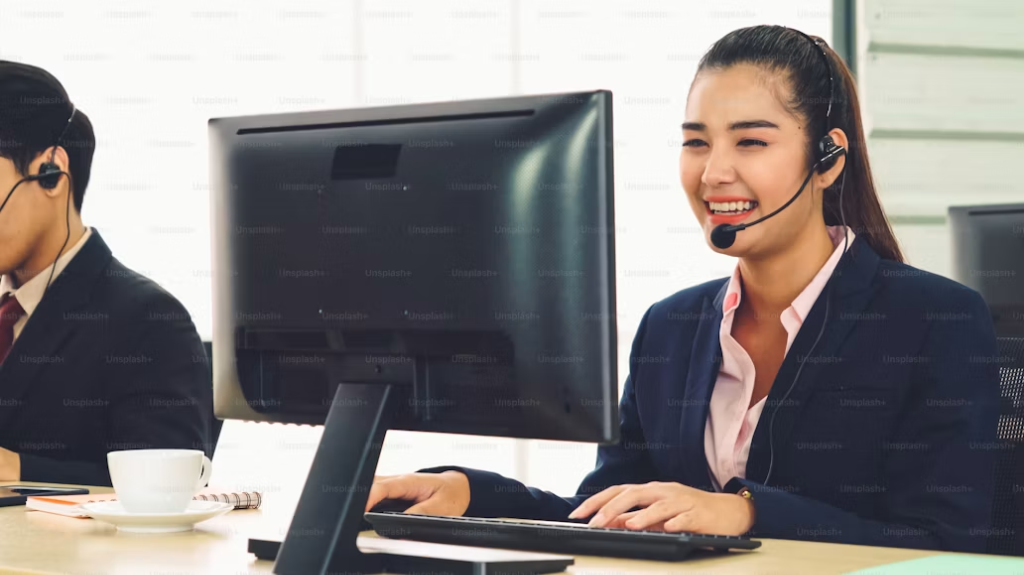
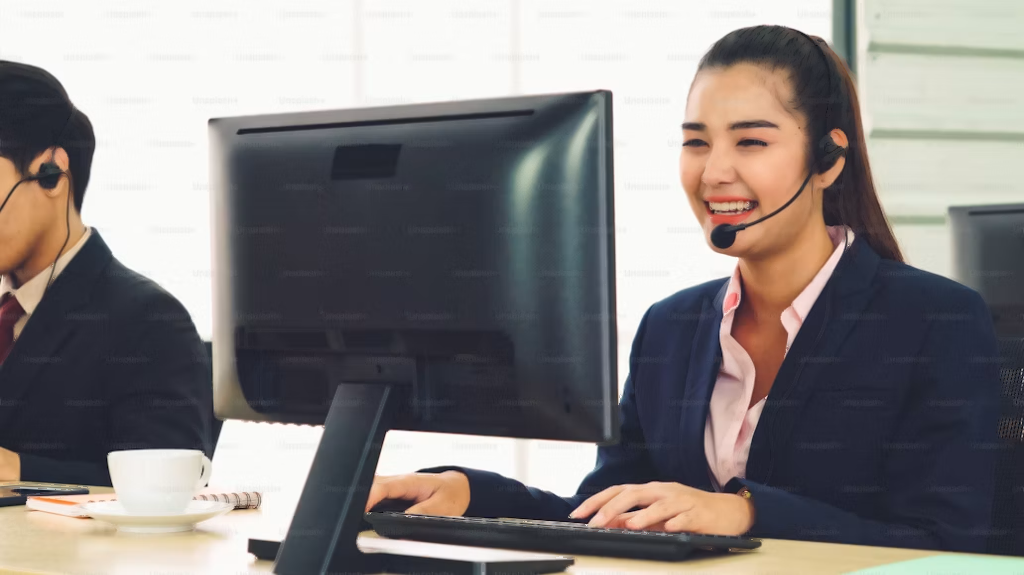
feat: add word-by-word reveal and staggered CTA animations; remove watermarks from CTA background photo

diff --git a/src/components/CoolAirCTA.tsx b/src/components/CoolAirCTA.tsx
@@ -5,6 +5,17 @@ interface CoolAirCTAProps {
   onOpenBooking?: () => void;
 }
 
+const HEADLINE_WORDS = [
+  'Book',
+  'your',
+  'appointment',
+  'today',
+  'and',
+  'breathe',
+  'easier',
+  'tomorrow...',
+];
+
 export const CoolAirCTA: React.FC<CoolAirCTAProps> = ({ onOpenBooking }) => {
   const [isInView, setIsInView] = useState(false);
   const sectionRef = useRef<HTMLElement>(null);
@@ -13,7 +24,7 @@ export const CoolAirCTA: React.FC<CoolAirCTAProps> = ({ onOpenBooking }) => {
     // Check if element is already within viewport on initial load
     if (sectionRef.current) {
       const rect = sectionRef.current.getBoundingClientRect();
-      if (rect.top < window.innerHeight + 50 && rect.bottom > 0) {
+      if (rect.top < window.innerHeight && rect.bottom > 0) {
         setIsInView(true);
         return;
       }
@@ -26,7 +37,7 @@ export const CoolAirCTA: React.FC<CoolAirCTAProps> = ({ onOpenBooking }) => {
           observer.disconnect();
         }
       },
-      { threshold: 0.1, rootMargin: '0px 0px -40px 0px' }
+      { threshold: 0.15, rootMargin: '0px 0px -40px 0px' }
     );
 
     if (sectionRef.current) {
@@ -54,7 +65,7 @@ export const CoolAirCTA: React.FC<CoolAirCTAProps> = ({ onOpenBooking }) => {
       style={{ fontFamily: "'General Sans', sans-serif" }}
     >
       {/* ========================================================================= */}
-      {/* BACKGROUND IMAGE: Smiling Consultant on Phone with Lush Green Plant Wall  */}
+      {/* BACKGROUND IMAGE: Customer Support Team (Watermark removed)                */}
       {/* ========================================================================= */}
       <div className="absolute inset-0 z-0 pointer-events-none overflow-hidden">
         <img
@@ -114,30 +125,55 @@ export const CoolAirCTA: React.FC<CoolAirCTAProps> = ({ onOpenBooking }) => {
       <div className="relative z-10 max-w-7xl mx-auto px-4 sm:px-6 lg:px-8 py-10 sm:py-12 lg:py-14">
         <div className="max-w-2xl">
           
-          {/* Main Headline with Smooth Fade In Effect */}
+          {/* Main Headline with Elegant Word-by-Word Staggered Reveal */}
           <h2
-            className={`font-['General_Sans',sans-serif] text-2xl sm:text-3xl lg:text-[36px] font-light text-white tracking-tight leading-[1.2] mb-3 text-balance transition-all duration-1000 ease-[cubic-bezier(0.16,1,0.3,1)] ${
-              isInView ? 'opacity-100 translate-y-0' : 'opacity-0 translate-y-8'
-            }`}
+            className="font-['General_Sans',sans-serif] text-2xl sm:text-3xl lg:text-[36px] font-light text-white tracking-tight leading-[1.2] mb-3 text-balance"
             style={{ fontFamily: "'General Sans', sans-serif", fontSize: '36px', fontWeight: 300, color: '#ffffff' }}
           >
-            Book your appointment today and breathe easier tomorrow...
+            {HEADLINE_WORDS.map((word, index) => (
+              <span
+                key={index}
+                className="inline-block transition-all ease-out"
+                style={{
+                  opacity: isInView ? 1 : 0,
+                  transform: isInView ? 'translateY(0)' : 'translateY(12px)',
+                  transitionDuration: '750ms',
+                  transitionTimingFunction: 'cubic-bezier(0.16, 1, 0.3, 1)',
+                  transitionDelay: `${index * 55}ms`,
+                  marginRight: index === HEADLINE_WORDS.length - 1 ? '0' : '0.28em',
+                }}
+              >
+                {word}
+              </span>
+            ))}
           </h2>
 
-          {/* Subtitle Description with Staggered Fade In */}
+          {/* Subtitle Description with Staggered Fade & Slide In (0.75s ease-out) */}
           <p
-            className={`text-slate-300 text-sm sm:text-base lg:text-[16px] font-light leading-relaxed max-w-lg mb-6 sm:mb-7 transition-all duration-1000 delay-150 ease-[cubic-bezier(0.16,1,0.3,1)] ${
-              isInView ? 'opacity-100 translate-y-0' : 'opacity-0 translate-y-8'
-            }`}
-            style={{ fontWeight: 300 }}
+            className="text-slate-300 text-sm sm:text-base lg:text-[16px] font-light leading-relaxed max-w-lg mb-6 sm:mb-7 transition-all ease-out"
+            style={{
+              fontWeight: 300,
+              opacity: isInView ? 1 : 0,
+              transform: isInView ? 'translateY(0)' : 'translateY(12px)',
+              transitionDuration: '750ms',
+              transitionTimingFunction: 'cubic-bezier(0.16, 1, 0.3, 1)',
+              transitionDelay: '460ms',
+            }}
           >
             Call an air supply expert today for a quote on your new home comfort system.
           </p>
 
-          {/* ========================================================================= */}
-          {/* BOTTOM CONTROLS ROW: Sleek Hero-Style Connect Us Button with 1px Arrow     */}
-          {/* ========================================================================= */}
-          <div className="flex flex-wrap items-center">
+          {/* Bottom Controls Row: Connect Us Button with Staggered Entrance */}
+          <div
+            className="flex flex-wrap items-center transition-all ease-out"
+            style={{
+              opacity: isInView ? 1 : 0,
+              transform: isInView ? 'translateY(0)' : 'translateY(12px)',
+              transitionDuration: '750ms',
+              transitionTimingFunction: 'cubic-bezier(0.16, 1, 0.3, 1)',
+              transitionDelay: '620ms',
+            }}
+          >
             <a
               href="#contact"
               onClick={handleConnectClick}
